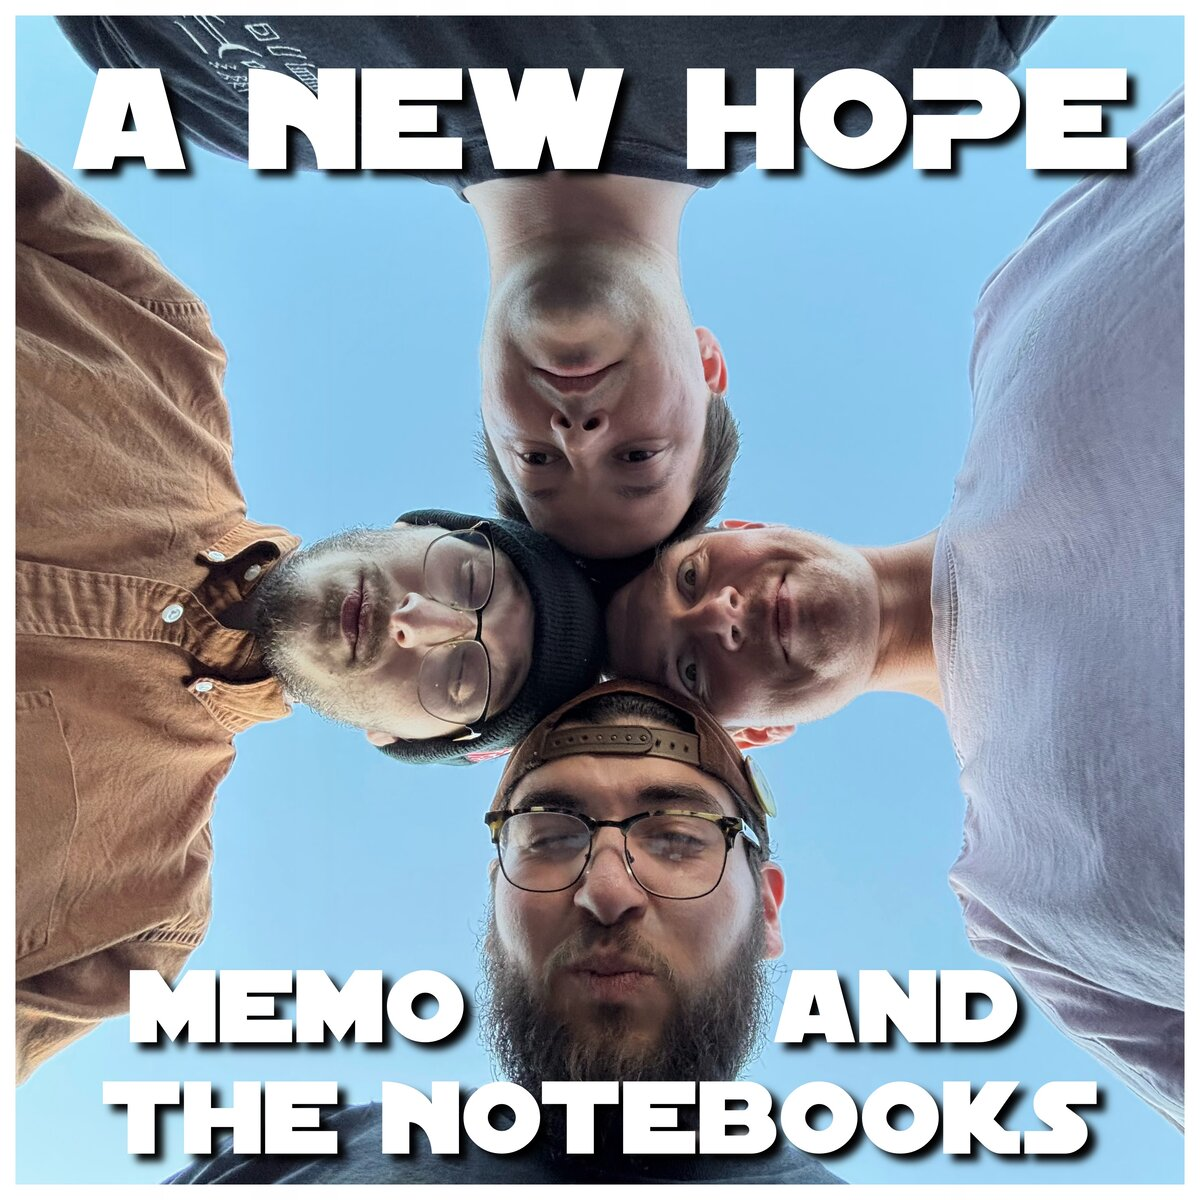
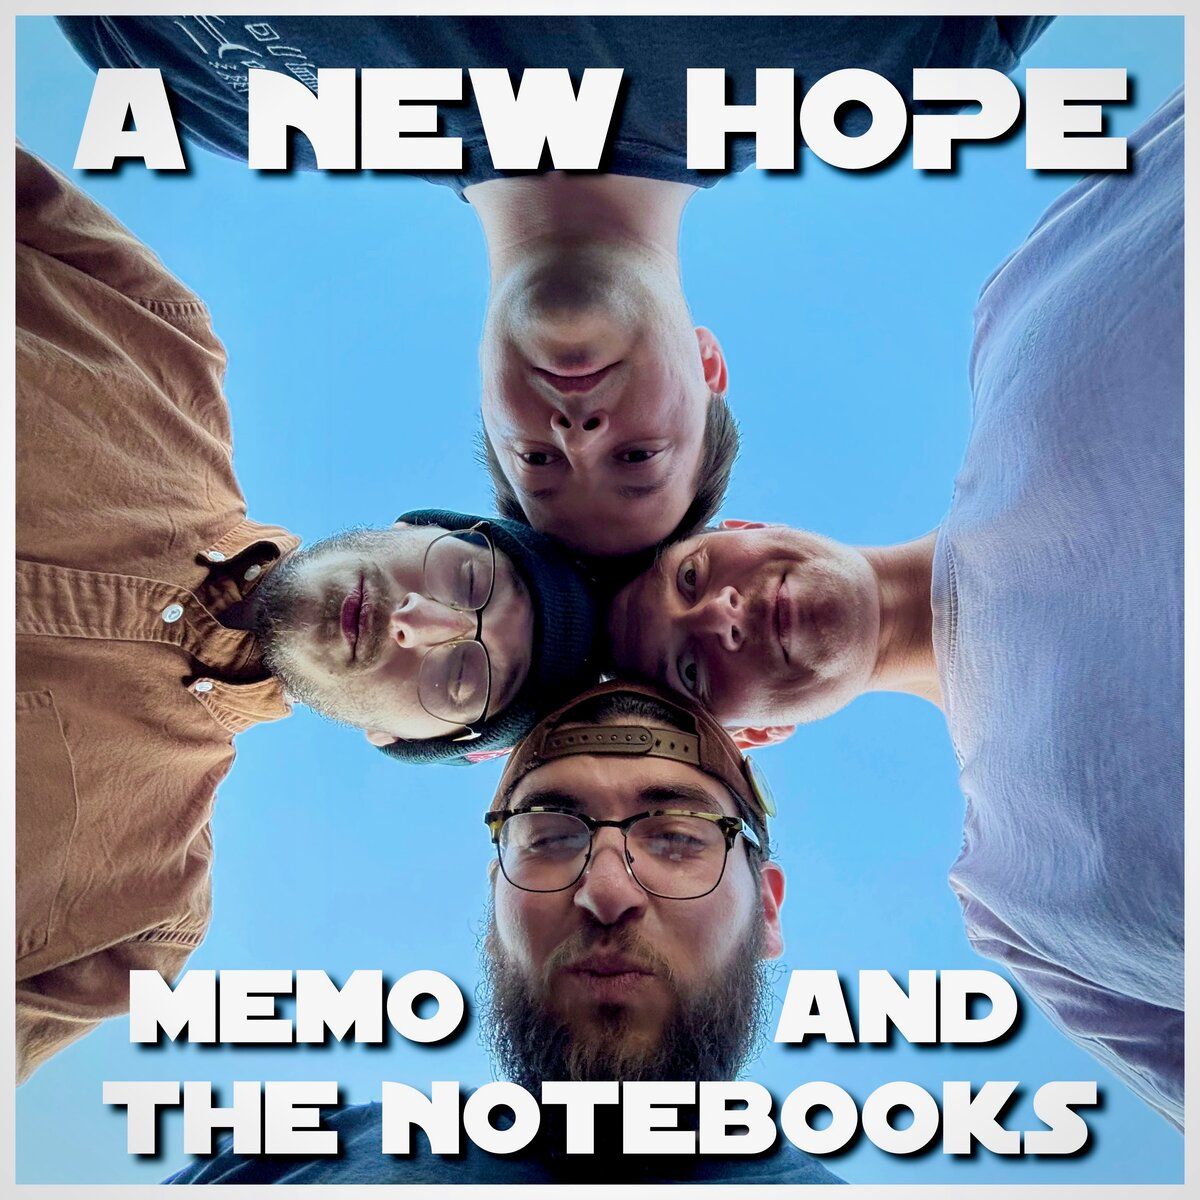
lighting adjusted on A New Hope pic

diff --git a/photos.html b/photos.html
@@ -95,12 +95,12 @@
 
     <script>
       const images = [
-        { src: 'assets/MATN_6.jpg', alt: 'Band Photo 6' },
+        { src: 'assets/MATN_6_web.jpg', alt: 'Band Photo 6' },
         { src: 'assets/MATN_5_web.jpg', alt: 'Band Photo 5' },
-        { src: 'assets/MATN_4.jpeg', alt: 'Band Photo 4' },
-        { src: 'assets/MATN_3.jpeg', alt: 'Band Photo 3' },
-        { src: 'assets/MATN_2.jpeg', alt: 'Band Photo 2' },
-        { src: 'assets/MATN_1.jpeg', alt: 'Band Photo 1' }
+        { src: 'assets/MATN_4_web.jpg', alt: 'Band Photo 4' },
+        { src: 'assets/MATN_3_web.jpg', alt: 'Band Photo 3' },
+        { src: 'assets/MATN_2_web.jpg', alt: 'Band Photo 2' },
+        { src: 'assets/MATN_1_web.jpg', alt: 'Band Photo 1' }
       ];
       
       let currentImageIndex = 0;

diff --git a/index.html b/index.html
@@ -282,10 +282,10 @@
 
     <script>
       const images = [
-        { src: 'assets/MATN_6.jpg', alt: 'Band Photo 6' },
+        { src: 'assets/MATN_6_web.jpg', alt: 'Band Photo 6' },
         { src: 'assets/MATN_5_web.jpg', alt: 'Band Photo 5' },
-        { src: 'assets/MATN_4.jpeg', alt: 'Band Photo 4' },
-        { src: 'assets/MATN_3.jpeg', alt: 'Band Photo 3' }
+        { src: 'assets/MATN_4_web.jpg', alt: 'Band Photo 4' },
+        { src: 'assets/MATN_3_web.jpg', alt: 'Band Photo 3' }
       ];
       
       const posters = [
